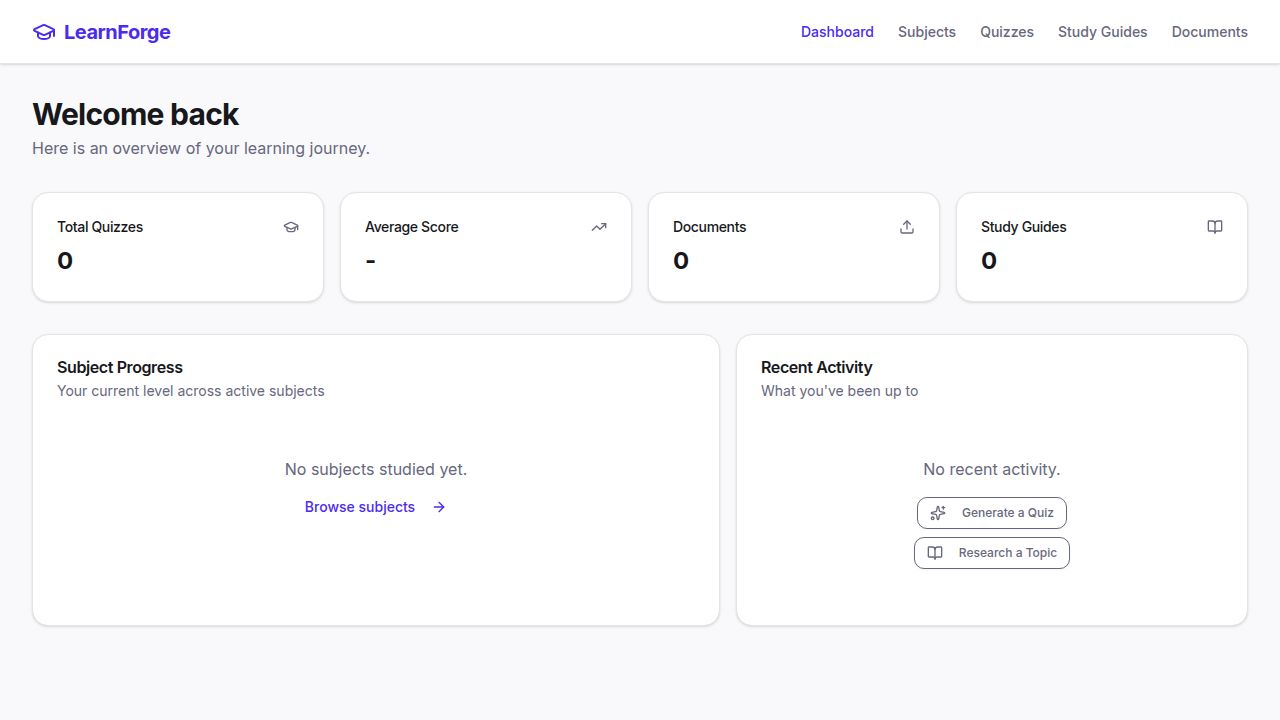
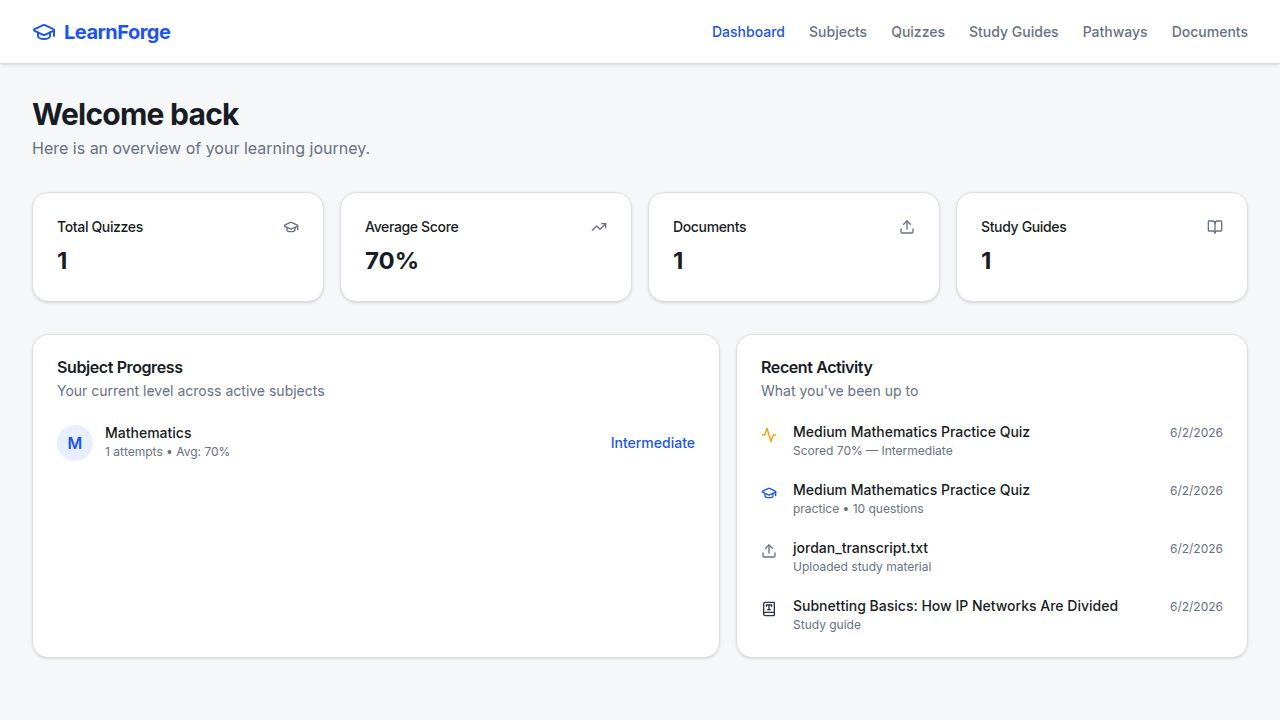
Make the app's header and navigation clearly visible with bold colors
Update the layout component to use a solid cobalt blue header background and white text for the logo and navigation links, ensuring color visibility throughout the application.

Replit-Commit-Author: Agent
Replit-Commit-Session-Id: 72d10ebd-3857-42a1-aaa0-6f5880a2cb80
Replit-Commit-Checkpoint-Type: full_checkpoint
Replit-Commit-Event-Id: 096dedee-8bee-4392-ac91-33a5cbfcdee0
Replit-Commit-Screenshot-Url: https://storage.googleapis.com/screenshot-production-us-central1/f2324b53-2997-48e7-81c2-cc5ed885578e/72d10ebd-3857-42a1-aaa0-6f5880a2cb80/uXQv6lR
Replit-Helium-Checkpoint-Created: true

diff --git a/artifacts/learnforge/src/components/layout.tsx b/artifacts/learnforge/src/components/layout.tsx
@@ -18,26 +18,30 @@ export function Layout({ children }: { children: React.ReactNode }) {
 
   return (
     <div className="flex min-h-screen w-full flex-col bg-background">
-      <header className="sticky top-0 z-40 flex h-16 shrink-0 items-center gap-x-4 border-b border-border bg-card px-4 shadow-sm sm:gap-x-6 sm:px-6 lg:px-8">
+      <header className="sticky top-0 z-40 flex h-16 shrink-0 items-center gap-x-4 bg-primary px-4 shadow-md sm:gap-x-6 sm:px-6 lg:px-8">
         <div className="flex flex-1 items-center justify-between gap-x-4 lg:gap-x-6">
-          <div className="flex items-center gap-2 font-bold text-xl text-primary tracking-tight">
+          <div className="flex items-center gap-2 font-bold text-xl text-white tracking-tight">
             <GraduationCap className="h-6 w-6" />
             <span>LearnForge</span>
           </div>
-          
+
           <div className="flex items-center gap-x-4 lg:gap-x-6">
             <nav className="hidden md:flex items-center gap-6 text-sm font-medium">
               {navigation.map((item) => (
                 <Link
                   key={item.name}
                   href={item.href}
-                  className={`transition-colors hover:text-primary ${location === item.href ? 'text-primary' : 'text-muted-foreground'}`}
+                  className={`transition-colors ${
+                    location === item.href
+                      ? 'text-white font-semibold underline underline-offset-4 decoration-white/60'
+                      : 'text-white/75 hover:text-white'
+                  }`}
                 >
                   {item.name}
                 </Link>
               ))}
             </nav>
-            <Button variant="ghost" size="icon" className="md:hidden" onClick={() => setMobileMenuOpen(!mobileMenuOpen)}>
+            <Button variant="ghost" size="icon" className="md:hidden text-white hover:bg-white/10" onClick={() => setMobileMenuOpen(!mobileMenuOpen)}>
               {mobileMenuOpen ? <X className="h-5 w-5" /> : <Menu className="h-5 w-5" />}
             </Button>
           </div>
@@ -45,13 +49,17 @@ export function Layout({ children }: { children: React.ReactNode }) {
       </header>
 
       {mobileMenuOpen && (
-        <div className="md:hidden border-b border-border bg-card p-4">
-          <nav className="flex flex-col gap-4 text-sm font-medium">
+        <div className="md:hidden border-b border-primary/20 bg-primary/95 p-4">
+          <nav className="flex flex-col gap-1 text-sm font-medium">
             {navigation.map((item) => (
               <Link
                 key={item.name}
                 href={item.href}
-                className={`flex items-center gap-2 p-2 rounded-md transition-colors hover:bg-muted ${location === item.href ? 'bg-primary/10 text-primary' : 'text-muted-foreground'}`}
+                className={`flex items-center gap-2 p-2 rounded-md transition-colors ${
+                  location === item.href
+                    ? 'bg-white/20 text-white'
+                    : 'text-white/75 hover:bg-white/10 hover:text-white'
+                }`}
                 onClick={() => setMobileMenuOpen(false)}
               >
                 <item.icon className="h-4 w-4" />